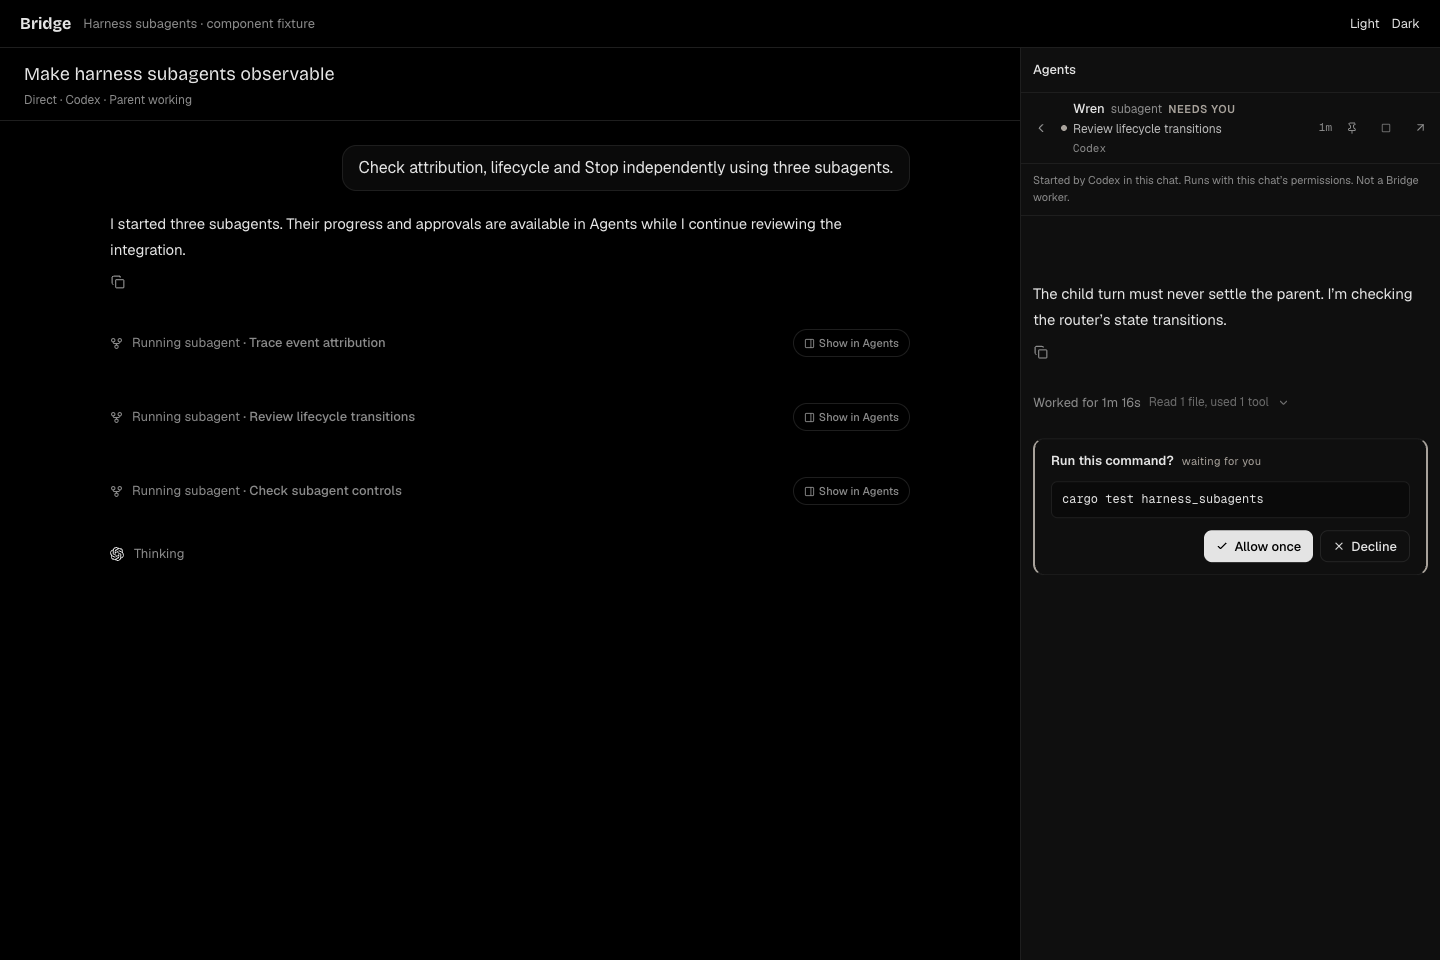
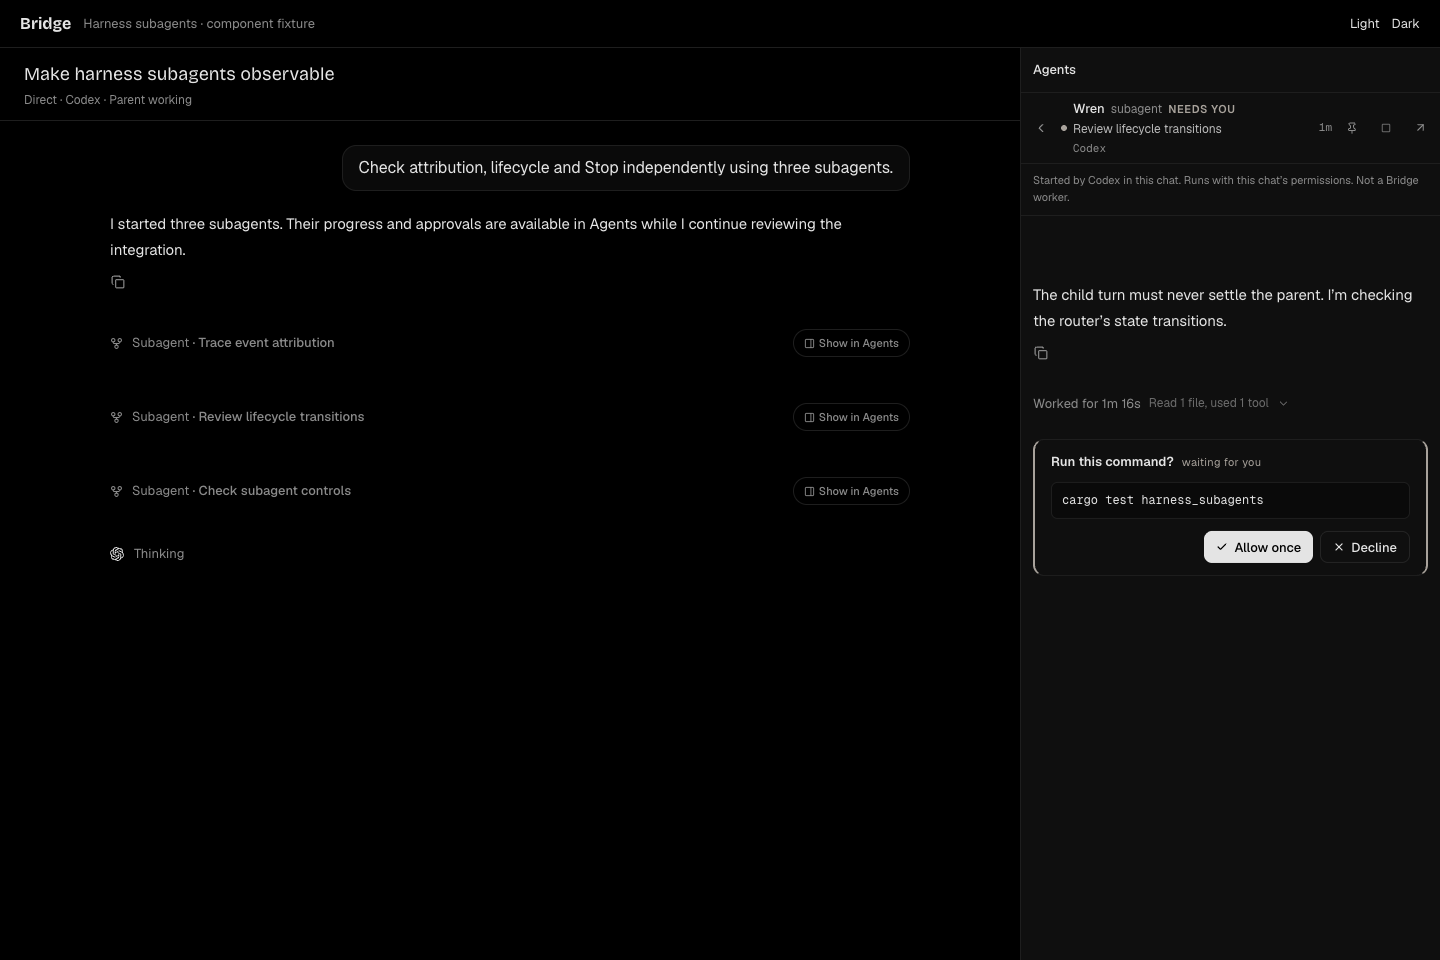
fix: step 3 keep subagent links accurate across later turns
Reviewed child turn grouping and provider-linked collaboration results against testing/feat-harness-subagent-ui.md. Refreshes the component screenshots.

diff --git a/src/components/AgentConversation.tsx b/src/components/AgentConversation.tsx
@@ -2247,7 +2247,7 @@ function DelegationRow({ item, onOpenSession, onOpenAgent, onRetryWorker }: { it
     <div className="flex min-w-0 items-center gap-1 -ml-2">
       <button className="min-w-0 flex-1 flex items-center gap-[9px] min-h-[30px] px-2 py-1 rounded-md text-left text-muted-foreground text-[13px] hover:bg-accent transition-colors" onClick={() => item.text && setOpen(value => !value)}>
         {isResult ? <CornerDownRight size={13} className="shrink-0" aria-hidden="true" /> : <GitFork size={13} className="shrink-0" aria-hidden="true" />}
-        <span className="min-w-0 flex-1 overflow-hidden whitespace-nowrap text-ellipsis">{item.data.harnessSubagent === true ? (isResult ? (item.status === "failed" ? "Subagent failed" : item.status === "interrupted" || item.status === "stopped" ? "Subagent interrupted" : "Subagent finished") : "Running subagent") : isResult ? "Subagent finished" : "Delegated"}{titleAddsInfo(item, isResult) && <b className="text-muted-foreground font-medium"> · {item.title}</b>}</span>
+        <span className="min-w-0 flex-1 overflow-hidden whitespace-nowrap text-ellipsis">{item.data.harnessSubagent === true ? "Subagent" : isResult ? "Subagent finished" : "Delegated"}{titleAddsInfo(item, isResult) && <b className="text-muted-foreground font-medium"> · {item.title}</b>}</span>
         {model && <em className="hidden flex-none font-mono text-[11px] text-muted-foreground not-italic border border-border rounded px-1.5 py-0.5 sm:inline">{model}{effort ? ` · ${effort}` : ""}</em>}
         {item.text && <ChevronRight size={12} className={`shrink-0 transition-transform ${open ? "rotate-90" : ""}`} aria-hidden="true" />}
       </button>

diff --git a/src/components/AgentConversation.test.tsx b/src/components/AgentConversation.test.tsx
@@ -968,5 +968,14 @@ it("folds a provider Agent call and its lifecycle into one quiet child pointer",
   const html=renderToStaticMarkup(<AgentConversation session={session} events={events} onResolve={()=>undefined} onOpenAgent={()=>undefined}/>);
   expect(html).not.toContain("Async agent launched");
   expect(html.split("Show in Agents").length-1).toBe(1);
-  expect(html.split("Subagent finished").length-1).toBe(1);
+  expect(html).not.toContain("Subagent finished");
+  expect(html).toContain("Subagent");
+});
+
+it("keeps a known child's final report out of the parent's collaboration tool card", () => {
+  const data={childSessionId:"bridge-child",subagent:{sessionId:"provider-child",agent:"codex",title:"Research"}};
+  const events=[event(1,"subagent.started",{data}),event(2,"tool.completed",{itemId:"wait-call",title:"wait",status:"completed",data:{type:"collabAgentToolCall",tool:"wait",receiverThreadIds:["provider-child"],agentsStates:{"provider-child":{status:"completed",message:"CHILD_ONLY_REPORT"}}}}),event(3,"subagent.completed",{data,status:"completed"})];
+  const html=renderToStaticMarkup(<AgentConversation session={session} events={events} onResolve={()=>undefined} onOpenAgent={()=>undefined}/>);
+  expect(html).not.toContain("CHILD_ONLY_REPORT");
+  expect(html.split("Show in Agents").length-1).toBe(1);
 });

diff --git a/src/transcript/toolCall.ts b/src/transcript/toolCall.ts
@@ -87,6 +87,7 @@ export interface ToolCallDisplay {
  * subagent finished".
  */
 export interface SubagentFacet {
+  providerSessionIds?: string[];
   agentType?: string;
   description?: string;
   prompt?: string;
@@ -371,7 +372,14 @@ function readSubagent(source: ToolCallSource, data: Record<string, unknown>): Su
   // neither type, description, nor prompt, but it still owns a child result
   // that the transcript should surface.
   if (!agentType && !description && !prompt && !isCollabAgent) return undefined;
-  return { agentType, description, prompt, status: lifecycleStatus };
+  const metadata = { ...objectValue(data.metadata), ...objectValue(state.metadata) };
+  const receiverIds = Array.isArray(data.receiverThreadIds) ? data.receiverThreadIds.filter((id): id is string => typeof id === "string") : [];
+  const providerSessionIds = [...new Set([
+    ...receiverIds,
+    ...(isCollabAgent ? Object.keys(objectValue(data.agentsStates)) : []),
+    ...[text(metadata.sessionId) ?? text(metadata.sessionID)].filter((id): id is string => Boolean(id)),
+  ])];
+  return { agentType, description, prompt, status: lifecycleStatus, ...(providerSessionIds.length ? { providerSessionIds } : {}) };
 }
 
 /** Read one tool call's display shape out of whatever the provider sent. */

diff --git a/src/transcript/codec.ts b/src/transcript/codec.ts
@@ -224,7 +224,12 @@ function localSessionData(sessionId: string, data: Record<string, unknown>): Rec
 
 function subagentPointer(kind: string, envelope: TranscriptEnvelope, data: Record<string, unknown>, status?: string): TranscriptEvent {
   const child = stringValue(data.childSessionId);
-  if (!child || child === envelope.sessionId || !["subagent.started", "subagent.completed"].includes(kind)) return { type: "session.lifecycle", envelope, settles: child === envelope.sessionId && (kind === "subagent.completed" || data.turnCompleted === true) };
+  if (child === envelope.sessionId) {
+    if (data.turnStarted === true) return { type: "turn.started", envelope };
+    if (data.turnCompleted === true || kind === "subagent.completed") return { type: "turn.completed", envelope, status };
+    return { type: "session.lifecycle", envelope, settles: false };
+  }
+  if (!child || !["subagent.started", "subagent.completed"].includes(kind)) return { type: "session.lifecycle", envelope, settles: false };
   const source = objectValue(data.subagent);
   return {
     type: "delegation.updated",

diff --git a/src/conversation.ts b/src/conversation.ts
@@ -420,7 +420,12 @@ export function delegationChildSessionId(item: ConversationItem): string | undef
 /** Replace a provider Agent tool card with its attributed child pointer. */
 export function foldHarnessSubagents(items: ConversationItem[]): ConversationItem[] {
   const ids = new Set(items.filter(item => item.data.harnessSubagent === true).map(item => subagentSource(item)?.sessionId).filter((id): id is string => Boolean(id)));
-  return items.filter(item => !(item.type === "activity" && item.tool?.subagent && item.itemId && ids.has(item.itemId)));
+  return items.filter(item => {
+    if (item.type !== "activity" || !item.tool?.subagent) return true;
+    if (item.itemId && ids.has(item.itemId)) return false;
+    const linked = item.tool.subagent.providerSessionIds;
+    return !linked?.length || !linked.every(id => ids.has(id));
+  });
 }
 
 /**

diff --git a/src/transcript/codec.test.ts b/src/transcript/codec.test.ts
@@ -356,6 +356,7 @@ it("projects a harness child pointer identically live and durable and hides self
   expect(b?.type).toBe(a.type);
   expect(a.envelope.providerData).toMatchObject({harnessSubagent:true,childSessionId:"child"});
   const self=normalizeAgentEvent(live("subagent.completed",{sessionId:"child",data,status:"completed"}));
-  expect(self).toMatchObject({type:"session.lifecycle",settles:true});
+  expect(self).toMatchObject({type:"turn.completed",status:"completed"});
+  expect(normalizeAgentEvent(live("subagent.status",{sessionId:"child",data:{...data,turnStarted:true}}))).toMatchObject({type:"turn.started"});
   expect(self.envelope.providerData.subagent).toBeUndefined();
 });
